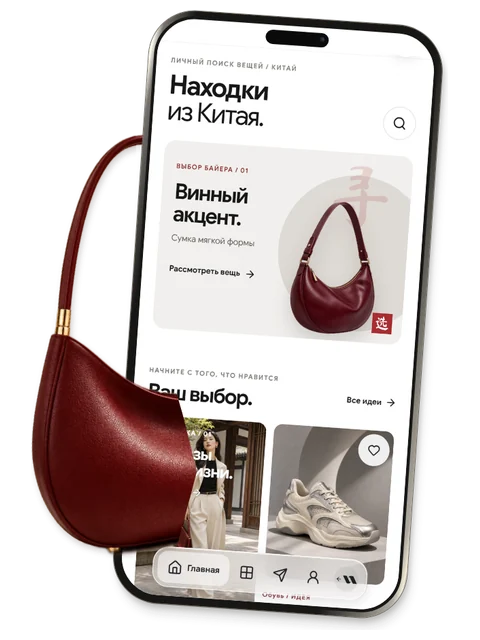
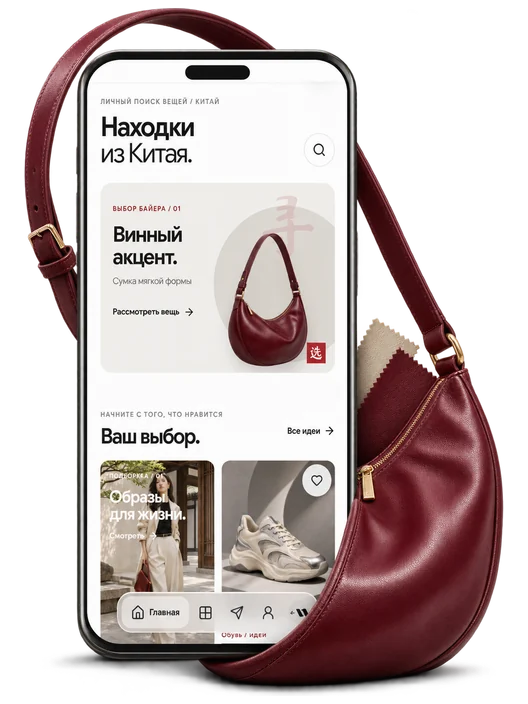
Regenerate showcase photo covers and keep the order action above navigation

diff --git a/client/src/components/ProjectsPage.tsx b/client/src/components/ProjectsPage.tsx
@@ -1,5 +1,8 @@
 import { memo, useState } from 'react';
-import { ArrowRight, ArrowUpRight, List, PanelsTopLeft } from 'lucide-react';
+import {
+  ArrowRight, ArrowUpRight, CalendarDays, Droplets, Flower2, Footprints, Gem, HardDrive,
+  PackageOpen, PackageSearch, Ruler, Shirt, Stethoscope, type LucideIcon,
+} from 'lucide-react';
 import { useLanguage } from '@/contexts/LanguageContext';
 import { preloadDemo } from './demos/DemoRegistry';
 import './ProjectsShowcase.css';
@@ -22,20 +25,33 @@ interface Project {
   category: Exclude<Category, 'all'>;
   title: [string, string];
   description: [string, string];
+  detail: [string, string];
+  icon: LucideIcon;
 }
 
 const projects: Project[] = [
-  { id: 'flower-store', category: 'shops', title: ['Магазин цветов', 'Flower shop'], description: ['Выберите букет для своего повода.', 'Pick a bouquet for the occasion.'] },
-  { id: 'muraka-fashion', category: 'shops', title: ['Магазин одежды', 'Clothing store'], description: ['Рассмотрите куртку и подберите размер.', 'Explore the jacket and find your size.'] },
-  { id: 'lumi-studio', category: 'services', title: ['Студия красоты', 'Beauty studio'], description: ['Выберите услугу, мастера и время.', 'Choose a treatment, stylist and time.'] },
-  { id: 'opt-market', category: 'b2b', title: ['Оптовый магазин', 'Wholesale store'], description: ['Соберите заказ для своего магазина.', 'Put together an order for your shop.'] },
-  { id: 'nike-sneakers', category: 'shops', title: ['Магазин кроссовок', 'Sneaker store'], description: ['Найдите свою пару и размер.', 'Find your pair and size.'] },
-  { id: 'jewelry-store', category: 'shops', title: ['Магазин украшений', 'Jewelry store'], description: ['Рассмотрите детали и сохраните любимое.', 'See the details and save your favorites.'] },
-  { id: 'apple-store', category: 'shops', title: ['Магазин техники', 'Electronics store'], description: ['Подберите iPhone и его конфигурацию.', 'Pick an iPhone and its configuration.'] },
-  { id: 'medical-center', category: 'services', title: ['Медицинский центр', 'Medical center'], description: ['Найдите специалиста и время приёма.', 'Find a specialist and an appointment.'] },
-  { id: 'women-fashion', category: 'shops', title: ['Женская одежда', 'Womenswear'], description: ['Соберите образ из коллекции.', 'Put together a look from the collection.'] },
-  { id: 'china-buyer', category: 'b2b', title: ['Байер из Китая', 'China sourcing'], description: ['Оставьте заявку на поиск товара.', 'Send a request to source a product.'] },
-  { id: 'skincare-aura', category: 'shops', title: ['Магазин косметики', 'Skincare store'], description: ['Подберите средства для своего ухода.', 'Find products for your skincare routine.'] },
+  { id: 'flower-store', category: 'shops', title: ['Магазин цветов', 'Flower shop'], description: ['Выберите букет для своего повода.', 'Pick a bouquet for the occasion.'],
+    detail: ['Розы и гортензии', 'Roses & hydrangeas'], icon: Flower2 },
+  { id: 'muraka-fashion', category: 'shops', title: ['Магазин одежды', 'Clothing store'], description: ['Рассмотрите куртку и подберите размер.', 'Explore the jacket and find your size.'],
+    detail: ['S · M · L · XL', 'S · M · L · XL'], icon: Ruler },
+  { id: 'lumi-studio', category: 'services', title: ['Студия красоты', 'Beauty studio'], description: ['Выберите услугу, мастера и время.', 'Choose a treatment, stylist and time.'],
+    detail: ['Запись к мастеру', 'Book a stylist'], icon: CalendarDays },
+  { id: 'opt-market', category: 'b2b', title: ['Оптовый магазин', 'Wholesale store'], description: ['Соберите заказ для своего магазина.', 'Put together an order for your shop.'],
+    detail: ['Заказ коробками', 'Order by the case'], icon: PackageOpen },
+  { id: 'nike-sneakers', category: 'shops', title: ['Магазин кроссовок', 'Sneaker store'], description: ['Найдите свою пару и размер.', 'Find your pair and size.'],
+    detail: ['EU 38–45', 'EU 38–45'], icon: Footprints },
+  { id: 'jewelry-store', category: 'shops', title: ['Магазин украшений', 'Jewelry store'], description: ['Рассмотрите детали и сохраните любимое.', 'See the details and save your favorites.'],
+    detail: ['Кольца и серьги', 'Rings & earrings'], icon: Gem },
+  { id: 'apple-store', category: 'shops', title: ['Магазин техники', 'Electronics store'], description: ['Подберите iPhone и его конфигурацию.', 'Pick an iPhone and its configuration.'],
+    detail: ['256 ГБ · 512 ГБ · 1 ТБ', '256 GB · 512 GB · 1 TB'], icon: HardDrive },
+  { id: 'medical-center', category: 'services', title: ['Медицинский центр', 'Medical center'], description: ['Найдите специалиста и время приёма.', 'Find a specialist and an appointment.'],
+    detail: ['Каталог врачей', 'Doctor directory'], icon: Stethoscope },
+  { id: 'women-fashion', category: 'shops', title: ['Женская одежда', 'Womenswear'], description: ['Соберите образ из коллекции.', 'Put together a look from the collection.'],
+    detail: ['Платья и жакеты', 'Dresses & jackets'], icon: Shirt },
+  { id: 'china-buyer', category: 'b2b', title: ['Байер из Китая', 'China sourcing'], description: ['Оставьте заявку на поиск товара.', 'Send a request to source a product.'],
+    detail: ['Поиск по заявке', 'Sourcing requests'], icon: PackageSearch },
+  { id: 'skincare-aura', category: 'shops', title: ['Магазин косметики', 'Skincare store'], description: ['Подберите средства для своего ухода.', 'Find products for your skincare routine.'],
+    detail: ['Тест по уходу', 'Skincare quiz'], icon: Droplets },
 ];
 
 const ProjectCard = memo(function ProjectCard({ project, ru, first, onOpenDemo }: {
@@ -43,6 +59,7 @@ const ProjectCard = memo(function ProjectCard({ project, ru, first, onOpenDemo }
 }) {
   const index = ru ? 0 : 1;
   const title = project.title[index];
+  const DetailIcon = project.icon;
   const action = ru ? 'Открыть демо' : 'Open demo';
   return <button type="button" className="ps-card" data-project={project.id}
     data-testid={`card-app-${project.id}`} aria-label={`${action}: ${title}`}
@@ -52,9 +69,10 @@ const ProjectCard = memo(function ProjectCard({ project, ru, first, onOpenDemo }
     <span className="ps-copy">
       <strong className="ps-title">{title}</strong>
       <span className="ps-description">{project.description[index]}</span>
+      <span className="ps-detail"><DetailIcon size={14} strokeWidth={1.6} aria-hidden="true" />{project.detail[index]}</span>
     </span>
     <span className="ps-art" aria-hidden="true">
-      <img alt="" src={`/showcase/covers/${project.id}.webp`} decoding="async" loading={first ? 'eager' : 'lazy'} draggable={false} />
+      <img alt="" src={`/showcase/covers/${project.id}.webp?v=2`} decoding="async" loading={first ? 'eager' : 'lazy'} draggable={false} />
     </span>
     <span className="ps-open" aria-hidden="true"><span>{action}</span><ArrowUpRight size={16} /></span>
   </button>;
@@ -64,23 +82,18 @@ export default memo(function ProjectsPage({ onNavigate, onOpenDemo }: ProjectsPa
   const { language } = useLanguage();
   const ru = language === 'ru';
   const [category, setCategory] = useState<Category>('all');
-  const [compact, setCompact] = useState(false);
   const visible = category === 'all' ? projects : projects.filter(project => project.category === category);
   return <main className="projects-showcase" data-testid="projects-showcase">
     <div className="ps-inner">
       <header className="ps-header">
         <h1>{ru ? 'Витрина' : 'Showcase'} <span className="ps-count" aria-live="polite">{visible.length}</span></h1>
-        <div className="ps-layout" role="group" aria-label={ru ? 'Вид витрины' : 'View'}>
-          <button type="button" aria-label={ru ? 'Карточки' : 'Cards'} aria-pressed={!compact} onClick={() => setCompact(false)}><PanelsTopLeft size={17}/></button>
-          <button type="button" aria-label={ru ? 'Список' : 'List'} aria-pressed={compact} onClick={() => setCompact(true)}><List size={18}/></button>
-        </div>
       </header>
       <div className="ps-filters" role="group" aria-label={ru ? 'Направления' : 'Categories'}>
         {filters.map(filter => <button key={filter.id} type="button" aria-pressed={category === filter.id} onClick={() => setCategory(filter.id)}>{ru ? filter.ru : filter.en}</button>)}
       </div>
-      <section className={`ps-collection${compact ? ' ps-collection--compact' : ''}`} aria-label={ru ? 'Примеры приложений' : 'Demo apps'}>
+      <div className="ps-collection" role="group" aria-label={ru ? 'Примеры приложений' : 'Demo apps'}>
         {visible.map((project, index) => <ProjectCard key={project.id} project={project} ru={ru} first={index === 0} onOpenDemo={onOpenDemo} />)}
-      </section>
+      </div>
       <button type="button" className="ps-order" onClick={() => onNavigate('constructor')}>{ru ? 'Заказать приложение' : 'Order an app'} <ArrowRight size={18}/></button>
     </div>
   </main>;

diff --git a/client/src/components/ProjectsShowcase.css b/client/src/components/ProjectsShowcase.css
@@ -12,21 +12,17 @@
   width: min(100%, 430px);
   margin-inline: auto;
   padding: calc(max(env(safe-area-inset-top, 0px), var(--csat, 0px), 12px) + 82px) 20px
-    calc(106px + max(env(safe-area-inset-bottom, 0px), var(--csab, 0px)));
+    var(--projects-end-space);
 }
-.ps-header, .ps-header h1, .ps-layout, .ps-filters, .ps-open, .ps-order { display: flex; align-items: center; }
+.ps-header, .ps-header h1, .ps-filters, .ps-open, .ps-order { display: flex; align-items: center; }
 .ps-header { justify-content: space-between; gap: 10px; }
 .ps-header h1 { align-items: baseline; gap: 7px; margin: 0; font-size: clamp(33px, 9vw, 40px); line-height: 1.08; letter-spacing: -.055em; font-weight: 680; }
 .ps-count { color: #666b6b; font-size: 14px; font-weight: 500; letter-spacing: 0; font-variant-numeric: tabular-nums; }
-.ps-layout { padding: 2px; border-radius: 24px; background: #f1f2f1; }
-.ps-layout button { display: grid; place-items: center; border: 0; border-radius: 24px; width: 44px; height: 44px; background: transparent; color: #6a706c; }
-.ps-layout button[aria-pressed="true"] { color: #191a1c; background: #fff; box-shadow: 0 1px 5px #18241c15; }
 .ps-filters { flex-wrap: wrap; gap: 6px; margin: 17px 0 20px; }
 .ps-filters button { min-height: 44px; padding: 0 15px; border: 0; border-radius: 24px; color: #47494b; background: #f4f4f3; font-size: 13px; font-weight: 550; }
 .ps-filters button[aria-pressed="true"], .ps-order { color: white; background: #202124; }
 .ps-collection { display: grid; gap: 12px; }
 .ps-card {
-  --paper: #f2f2f1;
   position: relative;
   display: grid;
   grid-template-columns: 49% 51%;
@@ -40,7 +36,7 @@
   border: 0;
   border-radius: 24px;
   color: #191a1c;
-  background: var(--paper);
+  background: #f2f2f1;
   text-align: left;
 }
 .ps-card:first-child { min-height: 248px; }
@@ -50,35 +46,13 @@
 .ps-open { position: relative; z-index: 1; grid-column: 1; width: max-content; gap: 6px; justify-content: center; align-self: end; min-height: 42px; margin: 0 0 18px 18px; padding: 0 13px; background: #fff; border-radius: 99px; color: #202124; font-size: 13px; font-weight: 550; line-height: 1; }
 .ps-art { position: absolute; inset: 3% 0 3% 46%; pointer-events: none; }
 .ps-art img { display: block; width: 100%; height: 100%; object-fit: contain; object-position: center; }
-.ps-card[data-project="flower-store"] { --paper: #f9eae8; }
-.ps-card[data-project="muraka-fashion"] { --paper: #efe9df; }
-.ps-card[data-project="lumi-studio"] { --paper: #eee8e9; }
-.ps-card[data-project="opt-market"] { --paper: #faf0db; }
-.ps-card[data-project="nike-sneakers"] { --paper: #f2e6df; }
-.ps-card[data-project="jewelry-store"] { --paper: #def1ed; }
-.ps-card[data-project="apple-store"] { --paper: #ebe9f0; }
-.ps-card[data-project="medical-center"] { --paper: #e5eeec; }
-.ps-card[data-project="women-fashion"] { --paper: #efe6e0; }
-.ps-card[data-project="china-buyer"] { --paper: #f6e6db; }
-.ps-card[data-project="skincare-aura"] { --paper: #f1e9f4; }
-.ps-card[data-project="flower-store"] .ps-open { background: #242020; color: white; }
 .ps-card:active { outline: 1px solid #29252533; outline-offset: -1px; }
 @media (hover: hover) {
   .ps-open svg { transition: transform .16s ease-out; }
   .ps-card:hover .ps-open svg { transform: translate(1px, -1px); }
 }
-.ps-collection--compact { gap: 8px; }
-.ps-collection--compact .ps-card {
-  grid-template-columns: 64px minmax(0, 1fr) 22px;
-  align-content: center; align-items: center;
-  gap: 11px; min-height: 84px; padding: 8px 14px 8px 8px; border-radius: 17px;
-}
-.ps-collection--compact .ps-card .ps-art { grid-column: 1; grid-row: 1; position: relative; inset: auto; width: 64px; height: 64px; padding: 0; border-radius: 10px; }
-.ps-collection--compact .ps-card .ps-art img { position: absolute; inset: 0; width: 100%; height: 100%; transform: none; object-fit: contain; object-position: center; }
-.ps-collection--compact .ps-copy { grid-column: 2; grid-row: 1; padding: 0; }
-.ps-collection--compact .ps-card .ps-title { order: -1; margin: 0 0 4px; font-size: 20px; }
-.ps-collection--compact .ps-description, .ps-collection--compact .ps-open span { display: none; }
-.ps-collection--compact .ps-card .ps-open { grid-column: 3; grid-row: 1; align-self: center; min-height: 0; margin: 0; padding: 0; color: #30302f; background: transparent; }
+.ps-detail { display: inline-flex; align-items: center; gap: 6px; margin-top: 14px; color: #575a56; font-size: 11px; line-height: 1.35; font-weight: 550; }
+.ps-detail svg { flex: none; }
 .ps-order { justify-content: space-between; gap: 12px; width: 100%; min-height: 51px; padding: 0 19px; margin-top: 20px; border: 0; border-radius: 99px; }
 @media (max-width: 350px) {
   .ps-inner { padding-inline: 15px; }

diff --git a/client/src/ProjectsShell.css b/client/src/ProjectsShell.css
@@ -1,4 +1,19 @@
 /* Shared app chrome, scoped exclusively to the projects route. */
+html.projects-route-theme {
+  --projects-viewport: min(100dvh, var(--tg-viewport-height, 100dvh));
+  --projects-safe-bottom: max(12px, env(safe-area-inset-bottom, 0px), var(--sab, 0px), var(--csab, 0px));
+  --projects-tab-height: 60px;
+  --projects-end-space: calc(var(--projects-tab-height) + var(--projects-safe-bottom) + 32px);
+}
+html.projects-route-theme #root {
+  height: var(--projects-viewport);
+  min-height: 0;
+  scroll-padding-bottom: var(--projects-end-space);
+}
+html.projects-route-theme .projects-dock {
+  bottom: max(0px, calc(100dvh - var(--projects-viewport)));
+}
+html.projects-route-theme nav.projects-nav { height: var(--projects-tab-height); }
 html.projects-route-theme .w4-topbar {
   background: rgba(255, 255, 255, .91) !important;
   border-bottom-color: rgba(37, 39, 42, .06) !important;

diff --git a/client/src/App.tsx b/client/src/App.tsx
@@ -263,10 +263,10 @@ const LiquidGlassNav = memo(({ route, user, hapticFeedback }: { route: any; user
     <>
       <LiquidGlassFilter />
       <div 
-        className="fixed bottom-0 left-0 right-0 flex justify-center z-50 animate-in slide-in-from-bottom-4 duration-300"
+        className={`fixed bottom-0 left-0 right-0 flex justify-center z-50 animate-in slide-in-from-bottom-4 duration-300${route.component === 'projects' ? ' projects-dock' : ''}`}
         style={{ 
           isolation: 'isolate',
-          paddingBottom: 'max(12px, env(safe-area-inset-bottom))',
+          paddingBottom: route.component === 'projects' ? 'var(--projects-safe-bottom)' : 'max(12px, env(safe-area-inset-bottom))',
           paddingLeft: '12px',
           paddingRight: '12px',
           paddingTop: '8px',
